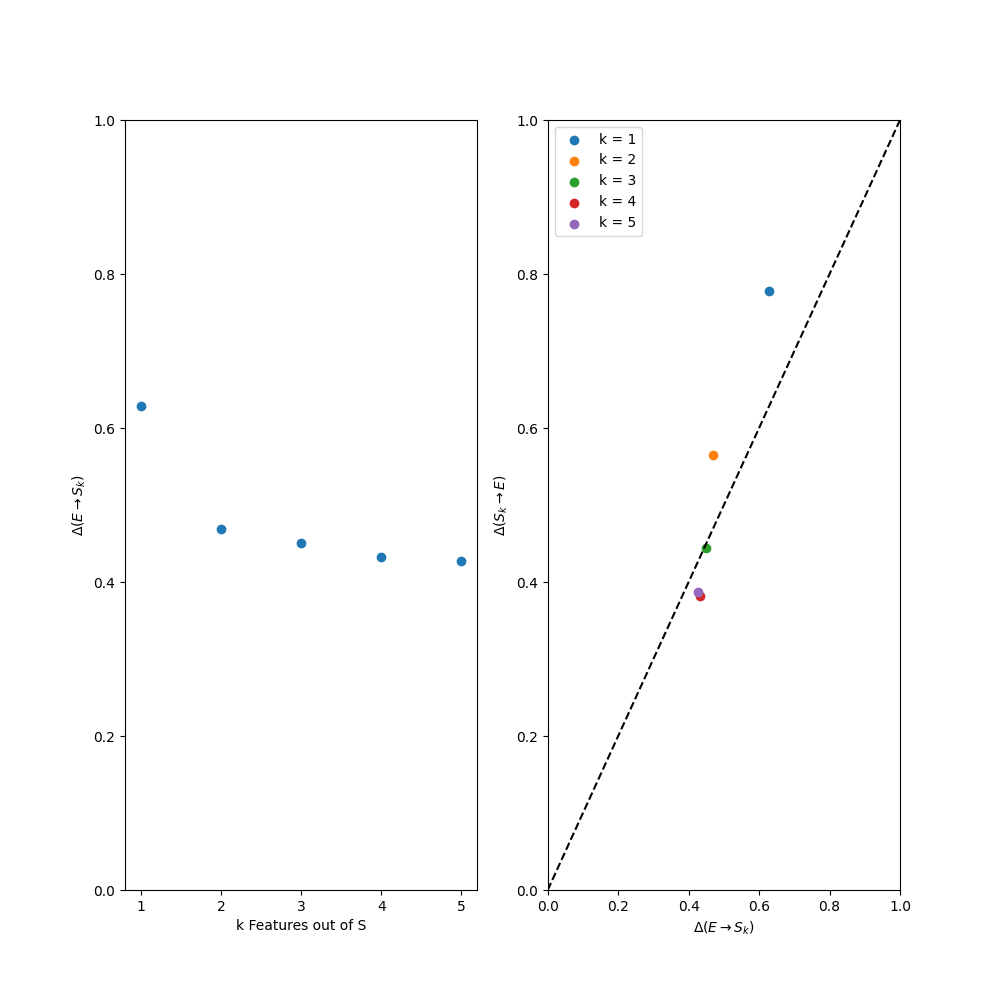
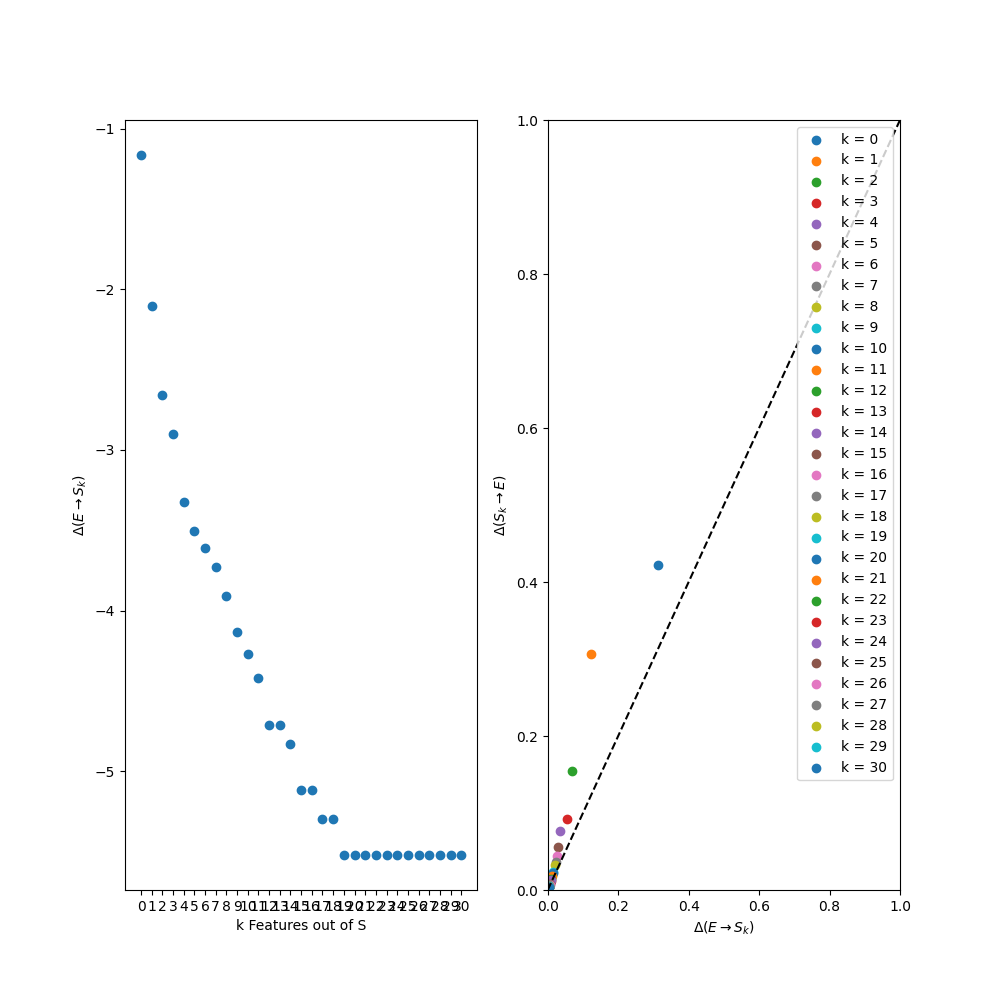
up

diff --git a/src/dataset.py b/src/dataset.py
@@ -7,6 +7,7 @@ import numpy as np
 import pandas as pd
 import os
 import datetime
+from tqdm import tqdm
 
 import torch
 from torch.utils.data import Dataset
@@ -15,7 +16,7 @@ from utils import Globally_Scale_Data
 
 
 class CamelDataset(Dataset):
-    def __init__(self, dates: list, force_attributes: list,  data_path: str = "basin_dataset_public_v1p2", source_data_set: str = "daymet", debug=False) -> None:
+    def __init__(self, dates: list, force_attributes: list,  data_path: str = "basin_dataset_public_v1p2", source_data_set: str = "nldas_extended", debug=False) -> None:
         super().__init__()
      
         self.data_path = data_path
@@ -54,7 +55,7 @@ class CamelDataset(Dataset):
         self.statics_ids = np.array(pd.read_csv(data_path+"/camels_clim.txt", sep=";")["gauge_id"]).astype(int)
      
         # convert string dates to datetime format
-        self.start_date = datetime.datetime.strptime(dates[0], '%Y/%m/%d').date()
+        self.start_date = datetime.datetime.strptime(dates[0], '%Y/%m/%d').date() - datetime.timedelta(days=270 - 1)
         self.end_date = datetime.datetime.strptime(dates[1], '%Y/%m/%d').date()
         
 
@@ -94,17 +95,17 @@ class CamelDataset(Dataset):
         self.loaded_basin_hucs = []
         self.loaded_basin_ids = []
         self.loaded_basin_names = []
+        self.first_lines = []
 
         # containers for data
         self.len_dataset = len(self.trimmed_basin_ids) # 531 catchmetns (previously 562)
         if self.debug:
             self.len_dataset = 15
 
-        self.input_data = torch.zeros(self.len_dataset, 1, self.seq_len, 1)
-        self.output_data = torch.zeros(self.len_dataset, 1, self.seq_len, self.num_force_attributes)
-        self.statics_data = torch.zeros(self.len_dataset,1, 1, self.static_attributes)
-        self.hydro_data = torch.zeros(self.len_dataset,1, 1, self.hydro_attributes)
-
+        self.input_data = []
+        self.output_data = []
+        self.statics_data = []
+        self.hydro_data =[]
         
     def adjust_dates(self, ):   
         """
@@ -155,83 +156,93 @@ class CamelDataset(Dataset):
    
         
     def load_data(self, ):
+        
         # run over trimmed basins
-        print("Loading Camel ...")
+        print("Loading Camels ...")
         # len(self.trimmed_basin_ids)
         count = 0
         self.num_iter = len(self.trimmed_basin_ids)
         if self.debug:
             self.num_iter = 15
     
-        for i in range(self.num_iter):
+        for i in tqdm(range(self.num_iter)):
             # retrieve data
             basin_id = self.trimmed_basin_ids[i]
             basin_huc = self.trimmed_basin_hucs[i]
-            path_forcing_data = os.path.join(self.data_path, "basin_mean_forcing", self.source_data_set, basin_huc, basin_id + "_lump_cida_forcing_leap.txt")
+            path_forcing_data = os.path.join(self.data_path, "basin_mean_forcing", self.source_data_set, basin_huc, basin_id + "_lump_nldas_forcing_leap.txt")
             path_flow_data = os.path.join(self.data_path, "usgs_streamflow", basin_huc, basin_id + "_streamflow_qc.txt")
             
             # read cathcment area
             with open(path_forcing_data) as myfile:
                 first_force_lines = [next(myfile) for y in range(3)]
-        
+
+            
             area = float(first_force_lines[-1]) # area in meter squared
 
             # read flow data
-            df_streamflow = pd.read_csv(path_flow_data,delim_whitespace=True, header=None)
-            flow_data = df_streamflow.iloc[:,4].to_numpy()
-            flow_dates = np.array([datetime.date(df_streamflow.iloc[i,1], df_streamflow.iloc[i,2], df_streamflow.iloc[i,3]) for i in range(len(flow_data))])
+            df_flow = pd.read_csv(path_flow_data,delim_whitespace=True, header=None)
+            flow_dates = np.array([datetime.date(df_flow.iloc[i,1], df_flow.iloc[i,2], df_flow.iloc[i,3]) for i in range(len(df_flow))])
+            flow_data = df_flow.iloc[:,4]
+            df_flow = pd.DataFrame()
+            df_flow["Streamflow(mm/day)"] = flow_data
+            df_flow.index = flow_dates
             
             # read forcing data 
             df_forcing = pd.read_csv(path_forcing_data,delim_whitespace=True, skiprows=3)
             force_dates = np.array([datetime.date(df_forcing.iloc[i,0], df_forcing.iloc[i,1], df_forcing.iloc[i,2]) for i in range(len(df_forcing))])
+            df_forcing = df_forcing[self.force_attributes]
+            df_forcing.index  = force_dates
             
             # control length and assert they are equal
             #assert len(flow_data) == len(force_dates)
             
             # get rid of cathcments whose dates range is not the input one
-            interval_force_dates_bool = force_dates[0] <= self.start_date and force_dates[-1] >= self.end_date
-            interval_flow_dates_bool = flow_dates[0] <= self.start_date and flow_dates[-1] >= self.end_date
+            #interval_force_dates_bool = force_dates[0] <= self.start_date and force_dates[-1] >= self.end_date
+            #interval_flow_dates_bool = flow_dates[0] <= self.start_date and flow_dates[-1] >= self.end_date
 
-            
-            
-            # check if data containes the right date interval and if it is one of the basin in the loading list
-            if  self.basin_list.count(basin_id)>0: #interval_force_dates_bool and interval_flow_dates_bool:
+           
+            # check if data is contained in basin list 
+            if self.basin_list.count(basin_id)>0:
                 # adjust dates
                 bool_flow_dates = np.logical_and(self.start_date <= flow_dates, flow_dates <= self.end_date)
-                flow_data = flow_data[bool_flow_dates]
+                df_flow = df_flow[bool_flow_dates]
                 flow_dates  = flow_dates[bool_flow_dates]
+                
+                
                 bool_force_dates = np.logical_and(self.start_date <= force_dates, force_dates <= self.end_date)
                 df_forcing = df_forcing[bool_force_dates]
                 force_dates = force_dates[bool_force_dates]
-
+                
+               
                 # control that dates are the same
                 #print("Basin %d: " %count, basin_huc, basin_id)
-                assert len(flow_data) == len(df_forcing)
-                assert all(force_dates == flow_dates)
+                #assert len(flow_data) == len(df_forcing)
+                #assert all(force_dates == flow_dates)
 
                 # check that basins have with no missing data in the interval chosen
-                bool_false_values = flow_data!= -999.0
+                bool_false_values = df_flow!= -999.0
                 assert all(bool_false_values) == True
 
                 # transfer from cubic feet (304.8 mm) per second to mm/day (normalized by basin area)
-                flow_data = flow_data * (304.8**3)/(area * 10**6) * 86400
-
+                df_flow = df_flow * (304.8**3)/(area * 10**6) * 86400
+                
                 # add tmean(C)
                 # df_forcing["tmean(C)"] = (df_forcing["tmin(C)"] + df_forcing["tmax(C)"])/2.0
                 # rescale day to hours
-                df_forcing["dayl(s)"] = df_forcing["dayl(s)"]/3600.0
-                df_forcing.rename(columns = {'dayl(s)':'dayl(h)'}, inplace = True)
+                #df_forcing["Dayl(s)"] = df_forcing["Dayl(s)"]/3600.0
+                #df_forcing.rename(columns = {'Dayl(s)':'Dayl(h)'}, inplace = True)
 
                 # take data
-                force_data = torch.tensor(df_forcing.loc[:,self.force_attributes].to_numpy(), dtype=torch.float32).unsqueeze(0) # shape (1, seq_len, feature_dim=4)
-                flow_data = torch.tensor(flow_data, dtype=torch.float32).unsqueeze(1).unsqueeze(0) # shape (1, seq_len, feature_dim=1)
+                #force_data = torch.tensor(df_forcing.loc[:,self.force_attributes].to_numpy(), dtype=torch.float32).unsqueeze(0) # shape (1, seq_len, feature_dim=4)
+                #flow_data = torch.tensor(flow_data, dtype=torch.float32).unsqueeze(1).unsqueeze(0) # shape (1, seq_len, feature_dim=1)
                 
                 # append
-                self.input_data[count] = flow_data
-                self.output_data[count] = force_data
+                self.input_data.append(df_flow)
+                self.output_data.append(df_forcing)
                 self.loaded_basin_hucs.append(self.trimmed_basin_hucs[i])
                 self.loaded_basin_ids.append(self.trimmed_basin_ids[i])
                 self.loaded_basin_names.append(self.trimmed_basin_names[i])
+                self.first_lines.append(first_force_lines)
                 count += 1
             
         # redefine transformations
@@ -251,37 +262,24 @@ class CamelDataset(Dataset):
         # containers for data
         self.len_dataset = len(self.loaded_basin_ids) # 531 catchmetns (previously 562)
        
-        self.input_data = self.input_data[:self.len_dataset]
-        self.output_data = self.output_data[:self.len_dataset]
-        self.statics_data = self.statics_data[:self.len_dataset]
-        self.hydro_data = self.hydro_data[:self.len_dataset]
 
         print("... done.")
 
     def save_dataset(self,):
         np.savetxt("loaded_basin_ids.txt", np.array(self.loaded_basin_ids, dtype=str),  fmt='%s')
-        dir_force = "basin_dataset/daymet"
+        dir_force = "basin_dataset/nldas_extended"
         dir_flow = "basin_dataset/streamflow"
         for i in range(len(self.loaded_basin_ids)):
-            file_force = os.path.join(dir_force, self.loaded_basin_ids[i]+"_daymet.txt")
-            df_force = pd.DataFrame()
-            df_force["year"] = [self.dates[i].year for i in range(len(self.dates))]
-            df_force["month"] = [self.dates[i].month for i in range(len(self.dates))]
-            df_force["day"] = [self.dates[i].day for i in range(len(self.dates))]
-            df_force["prcp(mm/day)"] = np.array(self.output_data[i].squeeze())[:,0]
-            df_force["srad(W/m2)"] = np.array(self.output_data[i].squeeze())[:,1]
-            df_force["tmin(C)"] = np.array(self.output_data[i].squeeze())[:,2]
-            df_force["tmax(C)"] = np.array(self.output_data[i].squeeze())[:,3]
-            df_force["vp(Pa)"] = np.array(self.output_data[i].squeeze())[:,4]
-            df_force.to_csv(file_force, sep=" ")
+            file_force = os.path.join(dir_force, self.loaded_basin_ids[i]+"_nldas.txt")
+            # save first lines 
+            with open(file_force, "w") as f:
+                for l in self.first_lines[i]:
+                    f.write(l)
+           
+            self.output_data[i].to_csv(file_force, sep=" ", mode="a")
 
             file_flow = os.path.join(dir_flow, self.loaded_basin_ids[i]+"_streamflow.txt")
-            df_flow = pd.DataFrame()
-            df_flow["year"] = [self.dates[i].year for i in range(len(self.dates))]
-            df_flow["month"] = [self.dates[i].month for i in range(len(self.dates))]
-            df_flow["day"] = [self.dates[i].day for i in range(len(self.dates))]
-            df_flow["streamflow(mm/day)"] = np.array(self.input_data[i].squeeze())
-            df_flow.to_csv(file_flow, sep=" ")
+            self.input_data[i].to_csv(file_flow, sep=" ")
 
     def load_statics(self):
         """

diff --git a/src/analysis_imbalance.py b/src/analysis_imbalance.py
@@ -13,12 +13,12 @@ df_S = pd.read_csv("statics.txt", sep=" ").iloc[:,1::]
 S_ids = df_S.iloc[:,0]
 df_S = df_S.iloc[:,1::]
 df_S = (df_S- df_S.min())/(df_S.max()-df_S.min())
-print(df_S)
+
 # retrieve encoded features
-E_dim = 27
+E_dim = 3
 model_id = "lstm-ae-bdTrue-E"+str(E_dim)
 
-filename = "encoded_features_"+model_id+".txt"
+filename = "encoded_features/encoded_features_"+model_id+".txt"
 df_E = pd.read_csv(filename, sep=" ").iloc[:,1::]
 E_ids = df_E.iloc[:,0]
 df_E = df_E.iloc[:,1::]
@@ -182,47 +182,25 @@ coor_tot = np.arange(E_dim+27)
 # fig.savefig(file_corr)
 
 
-X = np.array(df_S)
+X = np.array(df_ES.iloc[:,1:])
+
 # define an instance of the MetricComparisons class
 d = MetricComparisons(X)
 d.compute_distances(X.shape[0]-1)
 fig, ax = plt.subplots(1,2,figsize=(10,10))
 
-# ### assess which subset of static features is more contained in learned AE featues
-# all_min_x = []
-# all_min_y = []
-# all_min_subsests_x = []
-# x_axis = range(1,6)
-# coor_S = np.arange(27)
-# l = []
-
-    
-# for i in range(27):
-#     subsets = coor_S - l
-#     k_imbalance_x = []
-#     k_imbalance_y = []
-#     new_l = l
-#     for new in subsets:
-#         new_l.append(new)
-#         imb = d.return_inf_imb_two_selected_coords(coords1= coor_S, coords2= new_l)
-#         k_imbalance_x.append(imb[0])
-#         k_imbalance_y.append(imb[1])
-
-#     min_x = min(k_imbalance_x)
-#     index_min_x = k_imbalance_x.index(min_x)
-#     min_subset_x = subsets[index_min_x]
-
-#     all_min_x.append(min_x)
-#     all_min_subsests_x.append(min_subset_x)
-#     all_min_y.append(k_imbalance_y[index_min_x])
 
 
-best_sets, best_imbs, all_imbs = d.greedy_feature_selection_target(target_ranks=d.dist_indices, n_coords=27, n_best=1, k=1)
-print(df_S.columns)
-for set in best_sets:
-    print(df_S.columns[set])
+best_sets, best_imbs, all_imbs = d.greedy_feature_selection_target(target_ranks=d.dist_indices, n_coords=27+E_dim, n_best=1, k=1)
 
-x_axis = np.arange(27)
+file_sets = "plot/plot_bestSets_imbalance_"+model_id+".txt"
+print(best_sets)
+with open(file_sets, 'w') as f:
+    for set in best_sets:
+        np.savetxt(f, df_ES.columns[set], newline=" ", fmt="%s")
+        f.write('\n')
+
+x_axis = np.arange(27+E_dim)
 ax[0].scatter(x_axis, np.log(best_imbs[:,0]))
 ax[0].set_xlabel("k Features out of S")
 ax[0].set_ylabel(r'$\Delta(E \rightarrow S_k) $')
@@ -240,5 +218,5 @@ ax[1].set_xlabel(r'$\Delta(E \rightarrow S_k) $')
 ax[1].set_ylabel(r'$\Delta(S_k \rightarrow E) $')
 
 
-file_save = "plot/plot_iterative_imbalance_fullS.png"
+file_save = "plot/plot_iterative_imbalance_"+model_id+".png"
 fig.savefig(file_save)

diff --git a/src/LSTM_main.py b/src/LSTM_main.py
@@ -45,12 +45,13 @@ if __name__ == '__main__':
     # Dataset
     #dates = ["1989/10/01", "2009/09/30"] 
     dates = ["1980/10/01", "2010/09/30"] # interval dates to pick
-    force_attributes = ["prcp(mm/day)", "srad(W/m2)", "tmin(C)", "tmax(C)", "vp(Pa)"] # force attributes to use
+    force_attributes =  ["PRCP(mm/day)", "SRAD(W/m2)", "Tmin(C)", "Tmax(C)", "Vp(Pa)"] # force attributes to use
     camel_dataset = CamelDataset(dates, force_attributes, debug=bool(args.debug))
     print("Debug mode: ", bool(camel_dataset.debug))
     print("Bidirectional LSTM: ", bool(args.bidirectional))
     print("Use static features: ", bool(args.statics))
     print("Use hydro signatures: ", bool(args.hydro))
+    
     
 
     #dataset.adjust_dates() # adjust dates if necessary

diff --git a/src/LSTM_AE_main.py b/src/LSTM_AE_main.py
@@ -42,7 +42,7 @@ if __name__ == '__main__':
     # Dataset
     #dates = ["1989/10/01", "2009/09/30"] 
     dates = ["1980/10/01", "2010/09/30"] # interval dates to pick
-    force_attributes = ["prcp(mm/day)", "srad(W/m2)", "tmin(C)", "tmax(C)", "vp(Pa)"] # force attributes to use
+    force_attributes = ["PRCP(mm/day)", "SRAD(W/m2)", "Tmin(C)", "Tmax(C)", "Vp(Pa)"] # force attributes to use
     camel_dataset = CamelDataset(dates, force_attributes, debug=bool(args.debug))
     print("Debug mode: ", bool(camel_dataset.debug))
     print("Bidirectional LSTM: ", bool(args.bidirectional))
